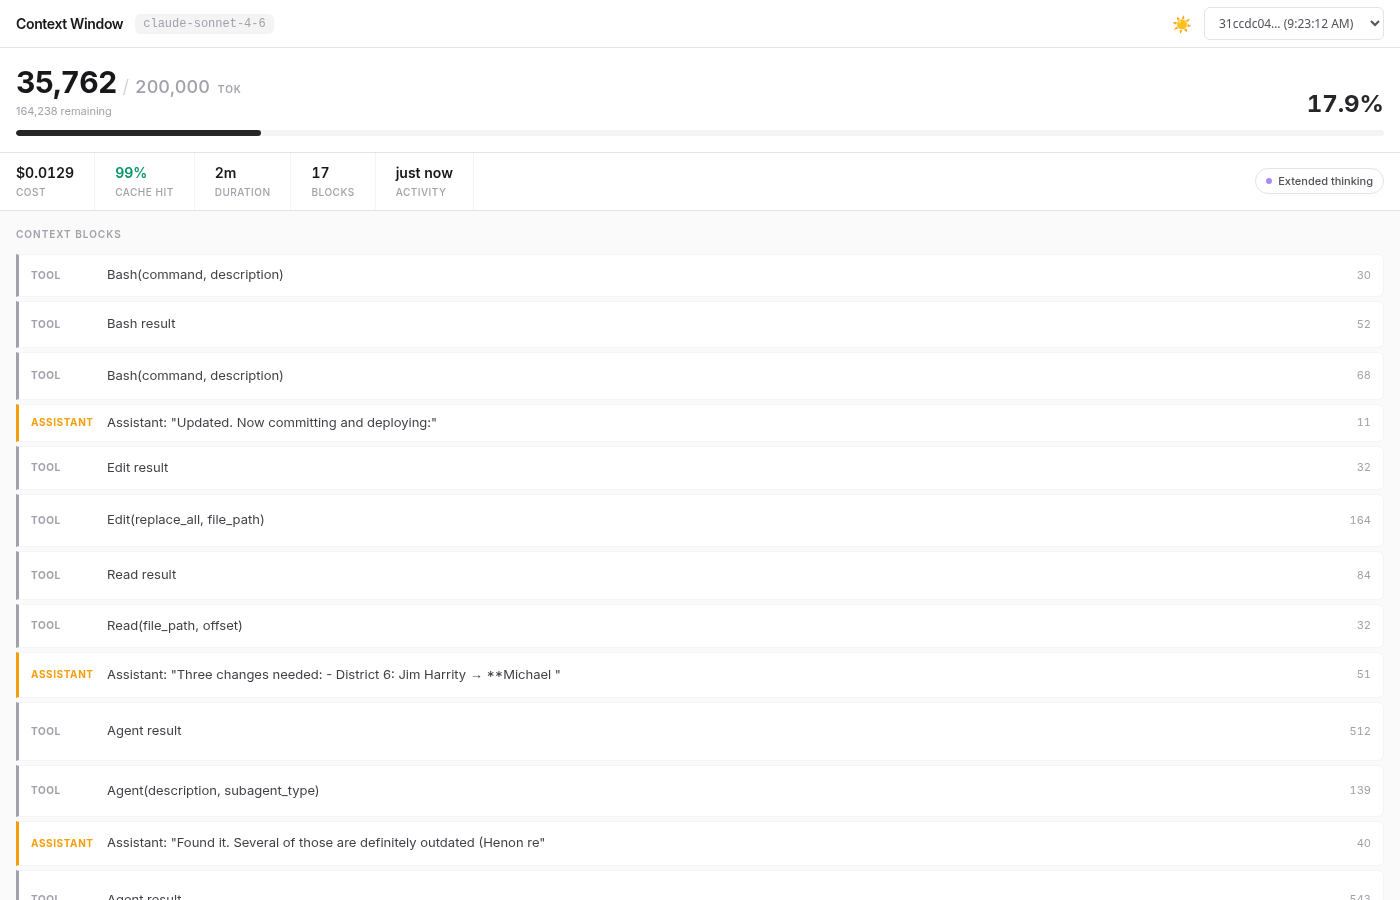
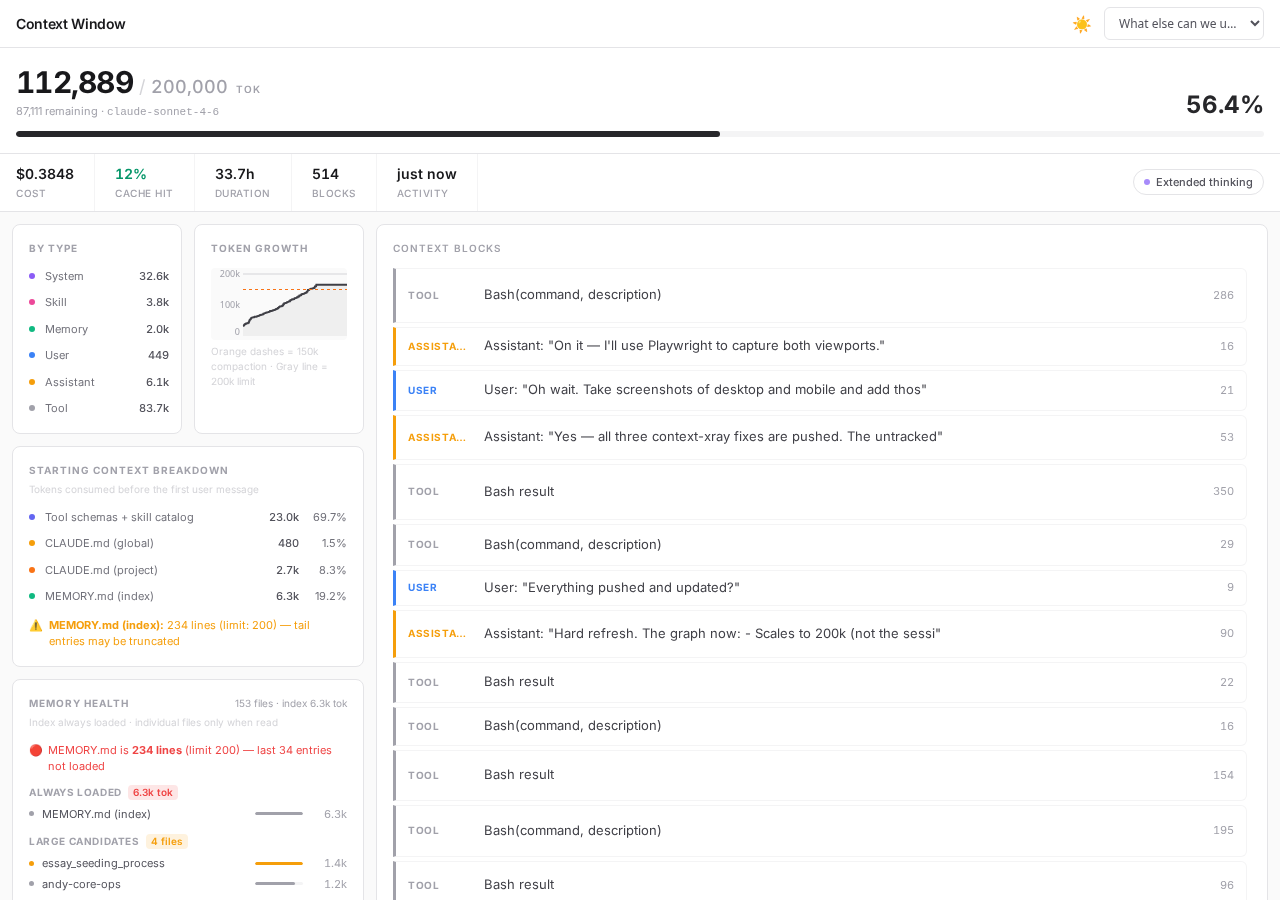
Update screenshots: desktop + mobile views with new layout

diff --git a/README.md b/README.md
@@ -4,7 +4,9 @@ A real-time context window visualizer for active [Claude Code](https://claude.ai
 
 Watches your Claude Code JSONL transcripts as they update and renders a live web dashboard showing token usage, cost estimates, cache hit rate, and a turn-by-turn breakdown — so you always know how much context you have left.
 
-![Screenshot of the context window visualizer](screenshot.png)
+![Desktop view of the context window visualizer](screenshot.png)
+
+![Mobile view of the context window visualizer](screenshot-mobile.png)
 
 ## Features
 
